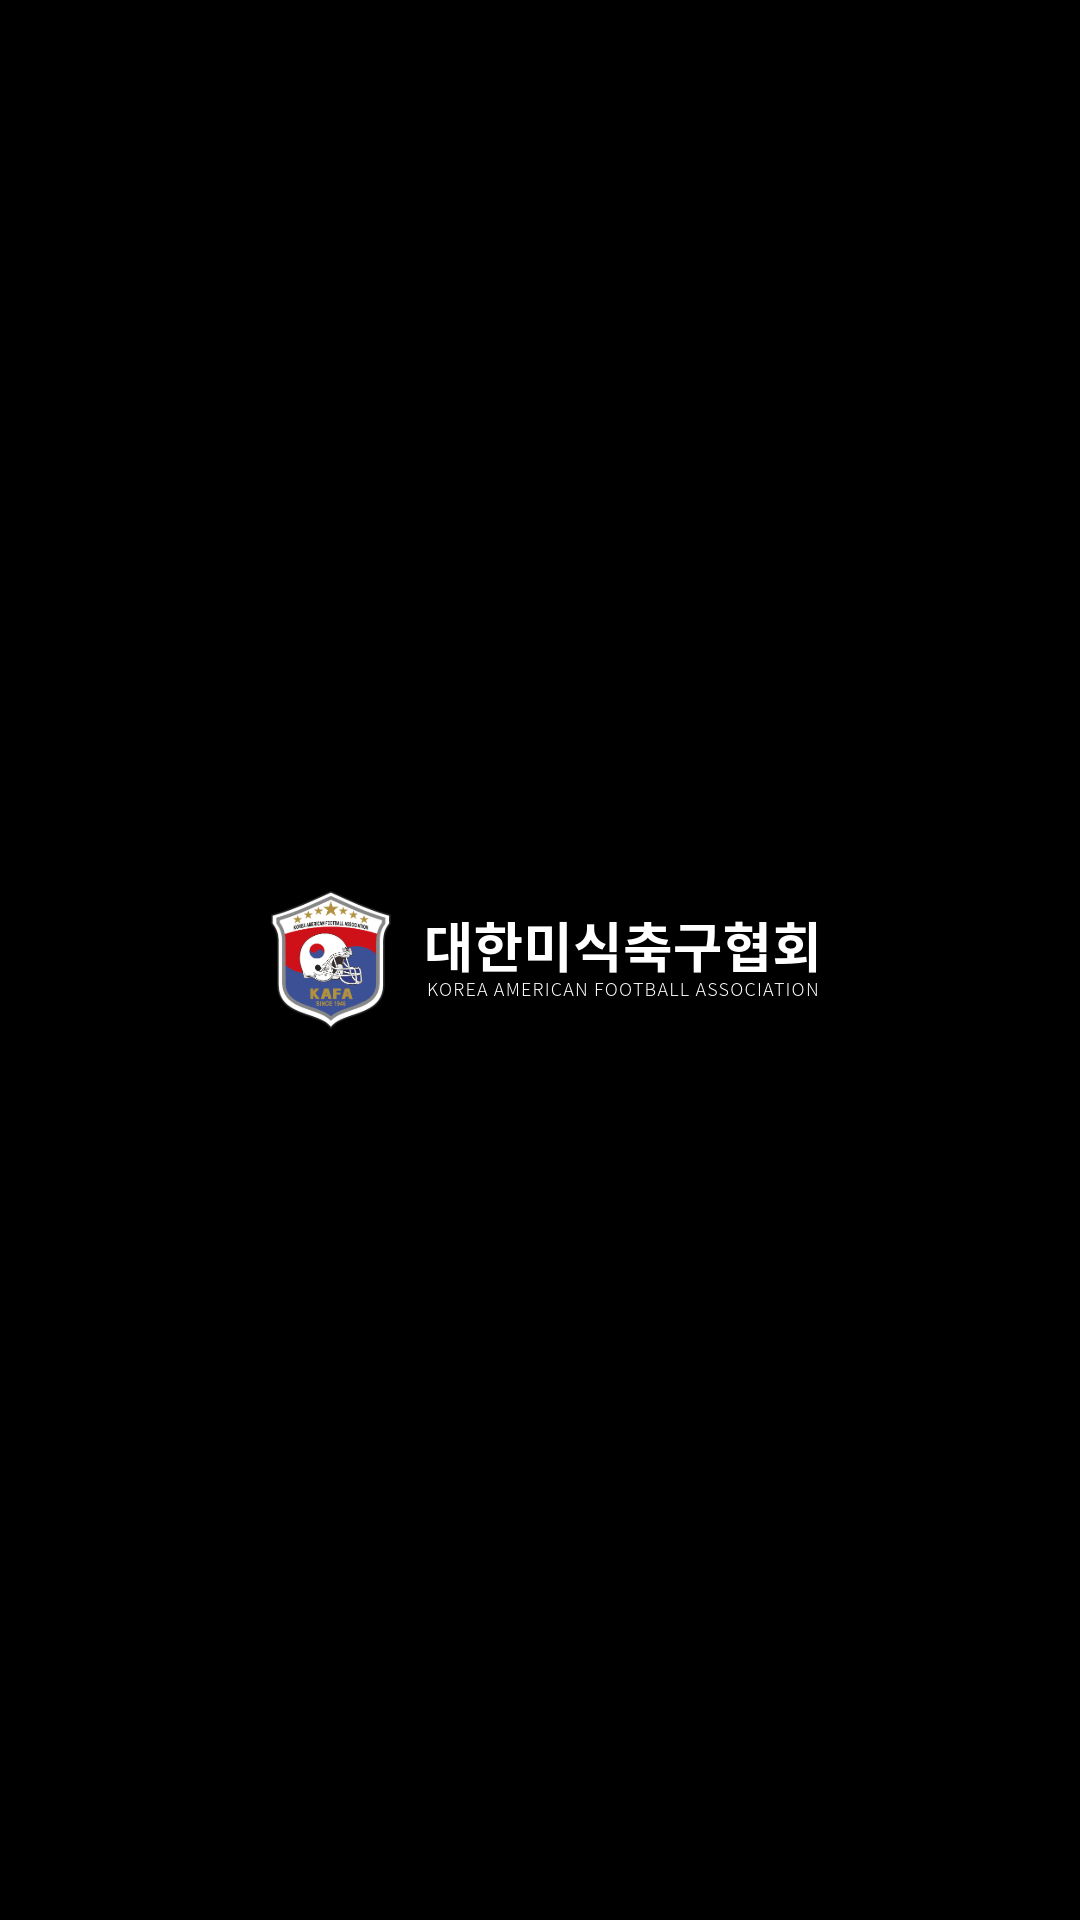
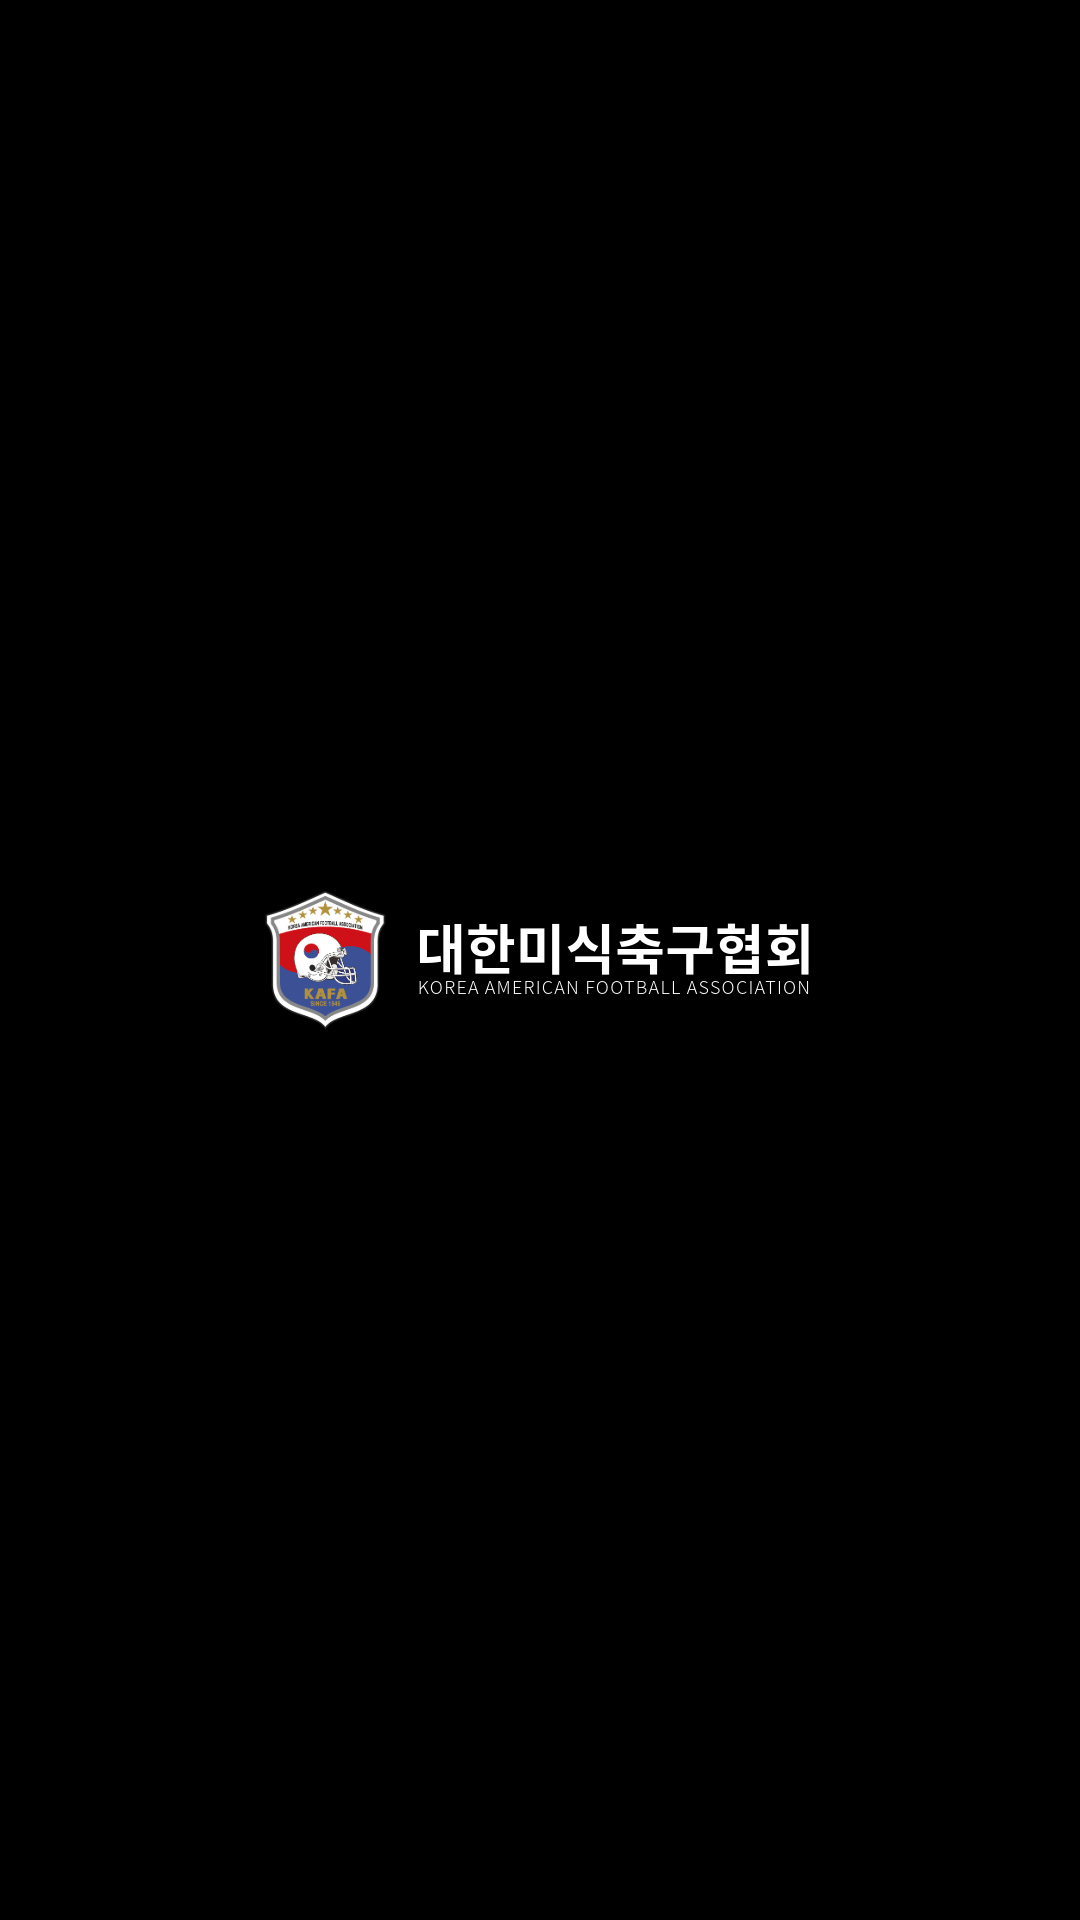
fix: open graph image

Changed region(s): [[0.2444, 0.4688, 0.7639, 0.5312]]

diff --git a/frontend/index.html b/frontend/index.html
@@ -6,9 +6,9 @@
     <meta property="og:type" content="website" />
     <meta property="og:url" content="https://kafa.one" />
     <meta property="og:title" content="대한미식축구협회" />
-    <meta property="og:image" content="/logo/logo.png" />
-    <meta property="og:image:width" content="488" />
-    <meta property="og:image:height" content="200" />
+    <meta property="og:image" content="/og_img.png" />
+    <meta property="og:image:width" content="800" />
+    <meta property="og:image:height" content="600" />
     <meta property="og:description" content="대한미식축구협회 홈페이지입니다" />
     <meta property="og:site_name" content="KAFA" />
     <meta property="og:locale" content="ko_KR" />
